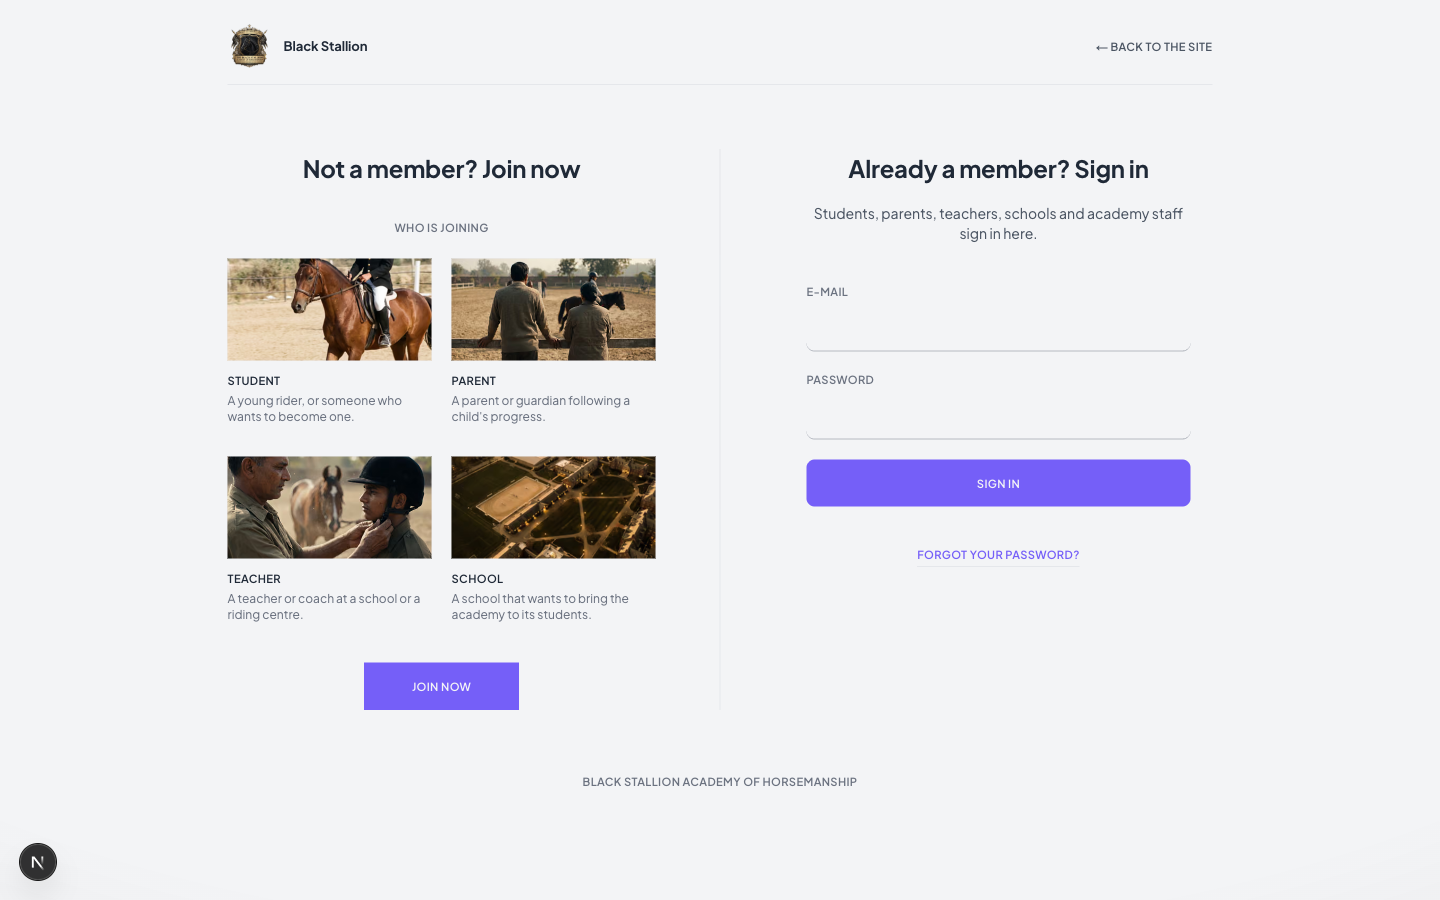
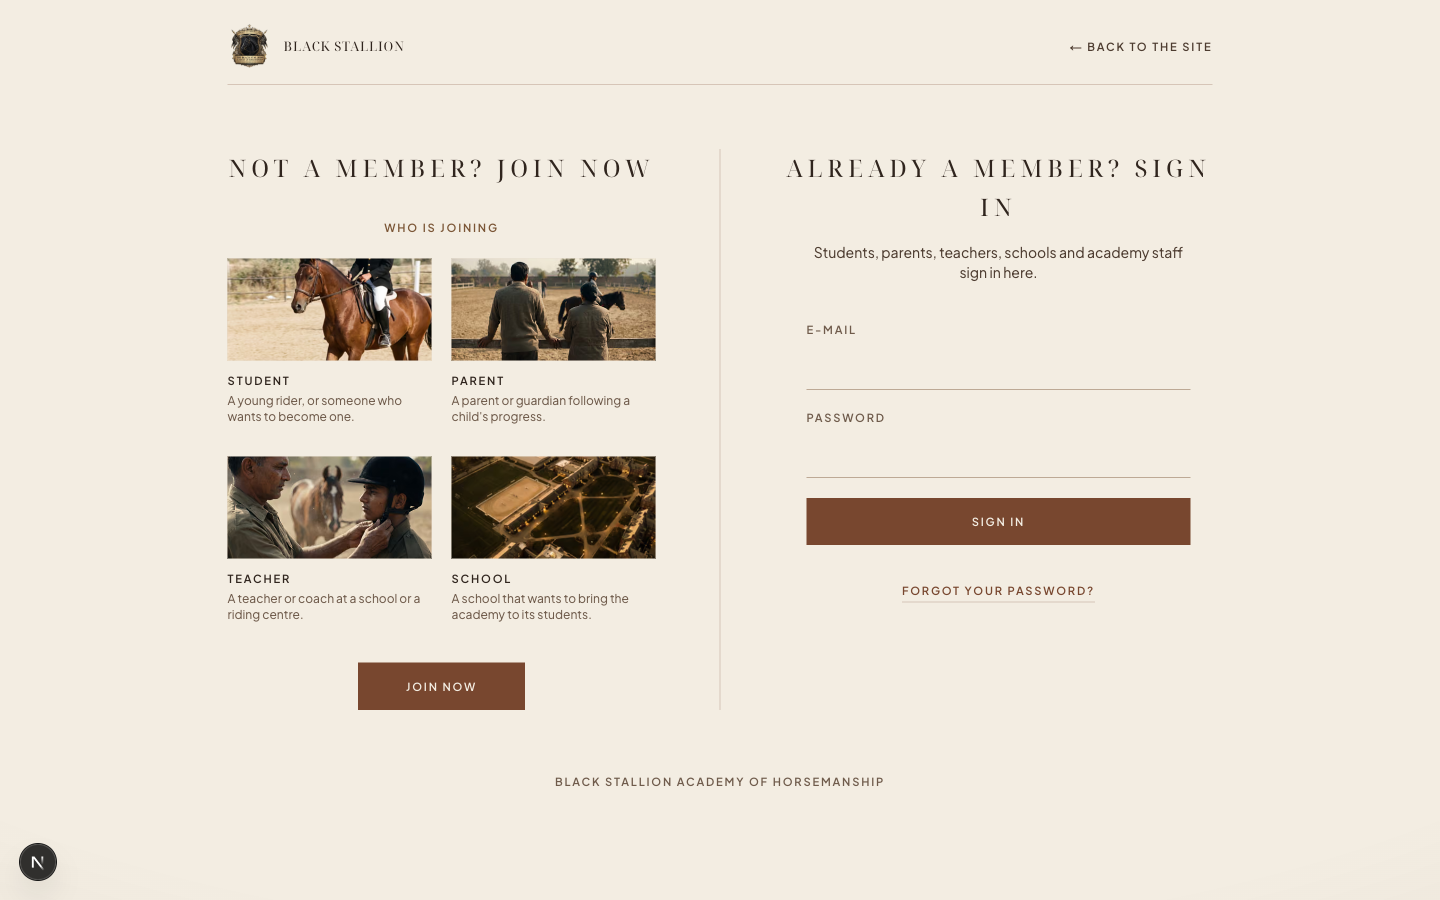
Sign-in, join and reset screens keep the original colours
The Mosaic colour scope is now set by AdminShell only, so the entry screens outside it keep the ivory page and chestnut buttons.
The dashboard and every console page are unchanged.

Typecheck and lint pass; checked at 390 and 1440 px, no sideways scroll.

diff --git a/app/admin/layout.tsx b/app/admin/layout.tsx
@@ -17,10 +17,10 @@ export const metadata: Metadata = {
 export const instant = false;
 
 /**
- * Staff console shell (no public nav or footer: the console is an application). Every page below re-checks the staff role on the server. `data-parallax-skip` keeps the
+ * Staff console shell (no public nav or footer: the console is an application). The Mosaic colours come from the `.console` scope that AdminShell sets on itself; the sign-in and reset screens sit outside it and keep the site's own colours. Every page below re-checks the staff role on the server. `data-parallax-skip` keeps the
  * site-wide scroll parallax (components/motion/SiteParallax.tsx) off console headings and images: it would drift
  * section headings onto the rules beneath them.
  */
 export default function AdminLayout({ children }: { children: React.ReactNode }) {
-  return <section data-parallax-skip className="console min-h-[100svh]">{children}</section>;
+  return <section data-parallax-skip className="min-h-[100svh] bg-night">{children}</section>;
 }

diff --git a/PROGRESS.md b/PROGRESS.md
@@ -668,6 +668,7 @@ Owner: the admin dashboard was very static; rebuild it with the references (a co
   - Logo fix: the footer showed a dark square (the image optimiser served a stale copy of the old crest, and browsers cache `/brand/*` for a day). The footer uses the 192 px file as is, and `LOGO` in `lib/content/site.ts` carries `?v=2` (bump it whenever the artwork changes).
   - Walking crowd removed from the whole site (owner's request): the title-scene band and the foot band on `/tournaments` are gone, the title photo is full screen again, and `CrowdCanvas`, `CircuitCrowd` and `public/animations/crowd-peeps.png` are deleted (in git history). Footer badges (academy and council) are smaller (56 to 64 px, was 80 to 96); the circuit seal 64 to 80 px.
   - Console re-skinned from the supplied Mosaic dashboard template (Cruip, Tailwind v4; read from the zip, nothing copied or installed): a `.console` token scope in `app/globals.css` (gray-100 page, white rounded-xl cards with a hairline shadow, violet accents, gray-900 / gray-800 dark, green / sky / yellow / red / violet signal colours), so every console page follows without edits. `AdminShell` has Mosaic's layout (full-height white sidebar with rounded right corners and a crest header, sticky plain header with bell, theme, view site, initial). Overview toolbar, cards, delta pills, status chips, trend chart, bars and the colour chart set use the template's palette and card radius. The same data and server actions as before; Inter was not added (the site's sans stands in), Chart.js was not added (the existing SVG charts are restyled). Dark mode kept.
+  - Sign-in, join and password-reset screens keep the site's original look (ivory page, chestnut buttons): the `.console` scope is set by `AdminShell` only, not by the admin layout.
   - QA: `docs/qa/redesign-31oct/` (1440 and 390). Typecheck and lint (0 errors) pass; build result in the commit message.
 - [x] **31 Oct 2026 · Supplied scenes moved (owner's request).**
   - `/science` robot: the dark stage and raking light are gone; the Spline scene (transparent backdrop, animation untouched) now stands on the page's ivory, its cut-off legs fading out. Spotlight no longer used there.
